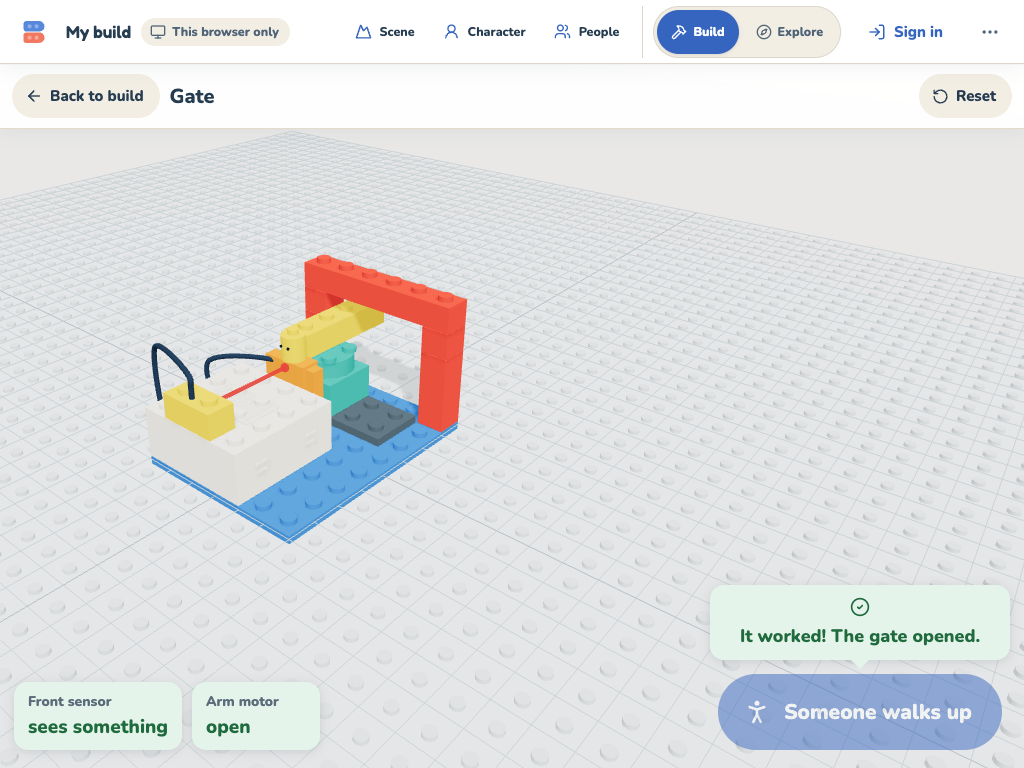
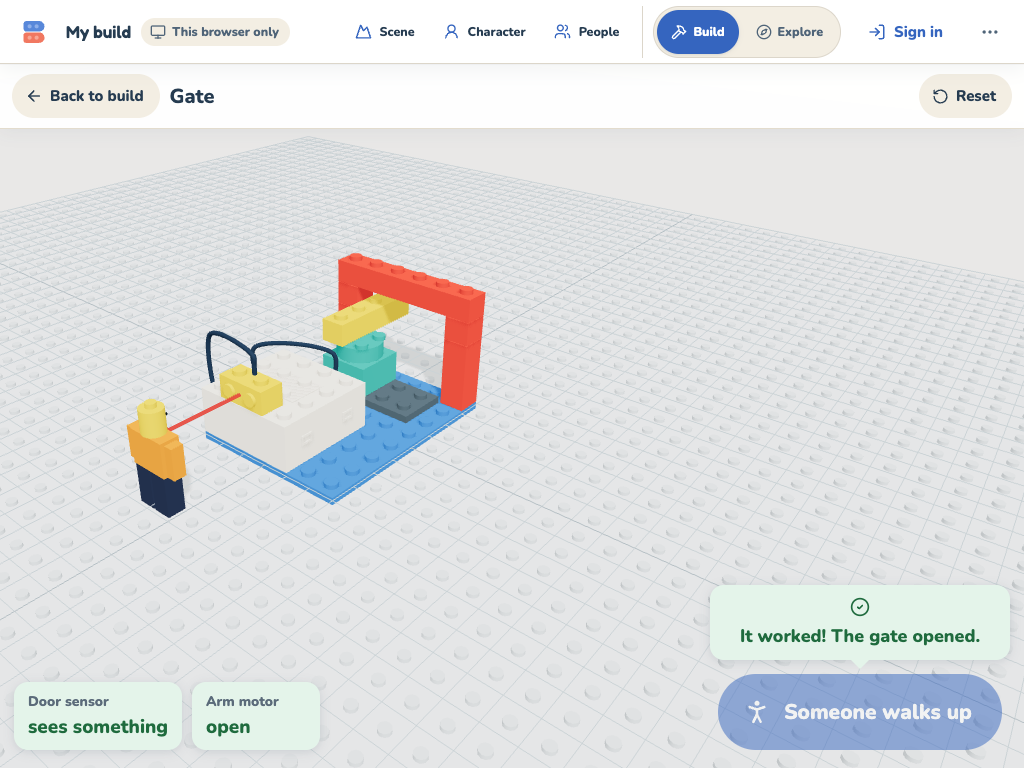
qa: lane Y evidence for the Gate kit's Door sensor (before/after in Try it, 60/60 five fresh runs)
docs/qa/robotics-kid/tryit: the Gate kit's Try it shots rerun with the sensor facing out (A1-A4), the
old ones kept under before/ for comparison; D1 is now the Door sensor turned to the door, D2 the same
with a wall in that gap; results.json from robotics-kid-tryit 60/60 on the tree with
claude/robotics-kid-int at 244a1e2 merged in (each run: the visitor in open ground, 2.3 studs clear of
the gate's front, the whole figure on screen under no panel). README: the follow-up, measurements,
the other harnesses (kid-kits 39/39, kid-guide 116/116, kid-paint 60/60, cp2-run 18/18,
cp2-failures 69/70 with F1.run.output-closeups failing on the integration tree itself: its 14 wheel
events of 400 px under lane M's new wheel zoom).

diff --git a/docs/qa/robotics-kid/tryit/README.md b/docs/qa/robotics-kid/tryit/README.md
@@ -1,23 +1,63 @@
 # Robot Workshop kid lane Y: Try it, the walk-up test, Code's stage and the light
 
-Lane Y (Claude Opus 5.5), 2026-09-23, branch `claude/robotics-kid-tryit` off `9f24b4d`. Everything stays behind
-`VITE_ROBOTICS_PROTOTYPE=1`.
+Lane Y (Claude Opus 5.5), 2026-09-23, branch `claude/robotics-kid-tryit` off `9f24b4d`, merged into
+`claude/robotics-kid-int` at `5a1485e`. The follow-up below (the Gate kit's Door sensor) is on the same branch:
+built on `5a1485e` (lanes R and P), then merged with `claude/robotics-kid-int` at `244a1e2` (lanes M and W and
+lane P's follow-ups) before the runs recorded here. Everything stays behind `VITE_ROBOTICS_PROTOTYPE=1`.
 
 Harness: `scripts/qa/robotics-kid-tryit.mjs`, run against this lane's dev server
 (`npx vite --mode robotics --port 5243 --strictPort --host 127.0.0.1`) in headless system Chrome through
-Playwright, at 1366×768, one pass at 1024×768 and one on a touch screen. Result: **54 of 54 checks pass**
+Playwright, at 1366×768, one pass at 1024×768 and one on a touch screen. Result: **60 of 60 checks pass**
 (`results.json`), no console errors.
 
     PATH=/opt/homebrew/opt/node@22/bin:$PATH UI_ORIGIN=http://127.0.0.1:5243 node scripts/qa/robotics-kid-tryit.mjs
 
 A student's input throughout: the drawer's **Robots** choice, a kit card and the command strip's **Place**; the
 panel's **Try it** and **Code**; **Someone walks up**; **Back to build**; a click on a number block and typed
-digits; **More → Swing to 60°**; **Undo**. Two builds use the studio's own placement actions (as the cp1/cp2
-harnesses do): a gate whose sensor was turned round (select it, press R twice) and a gate with a wall of its own
-bricks in front of its sensor; a signal light gets a wall of loose bricks in front of its sensor. Measured from the
-stage (`window.__robotics.stageStore`: the visitor's phase, the sensor reading, the hinge's angle, the light, the
-walk's verdict), from the page (the result line, the chips, the ready row) and, for the light, from the pixels.
-**Every first-try check ran five times, each in a fresh page with a fresh world.**
+digits; **More → Swing open**; **Undo**. Two builds use the studio's own placement actions (as the cp1/cp2
+harnesses do): the Gate with its sensor turned round to look at the door (select it, press R twice), and the same
+with a wall of its own bricks between the sensor and the door; a signal light gets a wall of loose bricks in front
+of its sensor. Measured from the stage (`window.__robotics.stageStore`: the visitor's phase and place, the sensor
+reading, the hinge's angle, the light, the walk's verdict), from the page (the result line, the chips, the ready
+row) and, for the light and the visitor, from the pixels. **Every first-try check ran five times, each in a fresh
+page with a fresh world.**
+
+## Follow-up: the Gate kit's Door sensor looks out of the front
+
+| | Before (`before/`) | After |
+|---|---|---|
+| The kit card, and the Gate placed from it | `before/A1-gate-placed.png` | `A1-gate-placed.png` |
+| Try it, before the press | `before/A2-gate-try-it.png` | `A2-gate-try-it.png` |
+| Walking into the beam | `before/A3-gate-2-seen.png` | `A3-gate-2-seen.png` |
+| Standing there: the gate open, *It worked! The gate opened.* | `before/A3-gate-3-standing.png` | `A3-gate-3-standing.png` |
+| They have gone: the gate shut, the line still there | `before/A4-gate-after.png` | `A4-gate-after.png` |
+
+Before, the kit's sensor looked at the door from the hub, so the visitor stood in the stud-wide gap between the
+hub and the door, half hidden behind the hub from the home camera. Now it looks out of the gate's front, where
+people come from: the visitor waits in front of the gate, walks up in open ground in full view, the sensor sees
+them, the door swings open behind, and the way through the frame is open while they stand there.
+
+- **The kit** (`src/robotics/kits/kits.ts`). The kit's copy of the spike gate turns its sensor a half turn on the
+  hub (`rotation: 2`: the same two cells, its eyes now on the front face, flush with the kit's front edge). The
+  spike fixture `gateBricks()` is unchanged, so the cp1/cp2 tests and harnesses and the model tests keep their
+  pose; `run/walkUp.test.ts` builds its "nowhere to stand" case on it.
+- **The name.** Default names follow the world facing, so a sensor facing the viewer is "Back sensor", which reads
+  wrong on a gate. The kit calls it **Door sensor**: a kit can name its devices now (`Kit.names`, optional; only
+  the Gate uses it), and `placeKitInSection` writes the names into `section.devices`, where a student's rename
+  goes. So it reads *Door sensor* wherever a device name shows (Try it's and Code's chips, the blocks' *Door
+  sensor · B*, the hub's card, the wiring lines), the student can rename it, it keeps its name when turned (D1), and
+  the one Undo that takes the kit away takes the name too (`kits/kitPlacement.test.ts`).
+- **The kit card** looks from the front-right now, the studio camera's side (`kits/kitPictures.ts`): the sensor's
+  eyes, the door a little open inside the red frame behind, and the arrow over the frame (A1).
+- **Try it's framing** is unchanged code (the robot and the visitor's whole path, in the canvas the panels leave
+  free). The harness now measures where the visitor stands on every run (`A.runN.open-ground`, 5 of 5): the walk
+  has no problem and comes across the beam from the camera's side; standing, the figure's back is
+  2.3 studs clear of the gate's front edge, all of it on the canvas (250–373 × 384–551 px at 1366×768) and under
+  none of the panels (the bar, the chips, the line, the button), and the pixels under its middle are its orange
+  shirt, (231, 164, 67). The same framing at 1024×768: G1.
+- **Turned round** (D1): pick the Door sensor and press R twice: it looks back at the door and keeps its name; the
+  visitor comes to the gap between the hub and the door (the old pose) and it works. D2 turns it to the door
+  first, then builds the wall of the gate's own bricks in that gap.
 
 ## What Noah hit, and what a student sees now
 
@@ -27,13 +67,9 @@ walk's verdict), from the page (the result line, the chips, the ready row) and, 
 | Code: "Someone walks up" did nothing unless the program was already running; after editing the wait the status was "Ready" and the arm stayed shut. | Any stage input (Someone walks up, the joystick, the keys pad, a button part on the stage) first runs the newest code, as Run would, when nothing runs or what runs is older than the saved program (E). An edit alone still never stops or restarts a run (CP2-PLAN §1); the stage says *Your code changed. Press Run to try it.* |
 | The light was red when off; it switched off after 2 s while the person still stood there. | The light's own colour is a pale grey lamp (off); on the stage an off light is greyed and dimmed and a lit one is its colour with a glow (C). The Signal light's program keeps it red while someone is there and turns it off when they leave. |
 | "Ready to try!" never changed after a success. | The ready row says what the last try did (*It worked! Try it again* with a tick, or *The gate didn't open. Try it again*) until the robot or its code changes (A5, D). |
-| The walker reached the gate before the arm swung. | The gate starts opening as the visitor walks into the beam and is 71–75° open when they stop (all five runs). |
+| The walker reached the gate before the arm swung. | The gate starts opening as the visitor walks into the beam and is 70–71° open when they stop (all five runs). |
 | The hub's cables vanished during **Test the motors**. | Cables whose device and hub ride on the same body move with it (F1): on the gate they stay put while the arm swings; on a driving Buggy they ride along. |
 | "studs", "°" and port letters on these screens. | Try it and Code's stage chips say *3 steps away*, *sees something*, *open* / *closed*, *turned to 45*; the lines never use a unit. |
-
-The Gate kit's sensor looks at the door from the hub, so the visitor stands in the stud-wide gap between the hub and
-the door: partly behind the hub from the home camera (A3). The robot works and says so; see "Not done" for the
-one-line kit change that would put the visitor in open ground (D1 shows how that looks).
 
 ## Decisions
 
@@ -59,11 +95,13 @@ one-line kit change that would put the visitor in open ground (D1 shows how that
 - **Code's stage** (CP2-PLAN-consistent). The Code view registers a stage runner while it is open; a stage input
   asks it first. The physical arrow keys are left as they were (only while running), so typing or moving around
   Blockly never starts a program by surprise. A verdict from before an edit is hidden once the code changed.
-- **Kit programs** (`src/robotics/program/starters.ts`). Smart gate: `when run · forever · if Front sensor sees
+- **Kit programs** (`src/robotics/program/starters.ts`). Smart gate: `when run · forever · if Door sensor sees
   something closer than 5 studs → turn Arm motor to 90°, else → turn Arm motor to 0°`; Signal post: the same with
-  `set Light to red` / `turn Light off`. 5 is the event hat's own "sees something", so the visitor at 3 is seen.
-  The gate's tip is unchanged (*change 90 to 45*); the signal's is now *change red to green. Then press "Someone walks
-  up".* Block ids keep their names (`smart-gate:open` …), so the failure harness still finds them.
+  its Front sensor and `set Light to red` / `turn Light off`. 5 is the event hat's own "sees something", so the
+  visitor at 3 is seen. The gate's tip is unchanged (*change 90 to 45*); the signal's is now *change red to green.
+  Then press "Someone walks up".* Block ids keep their names (`smart-gate:open` …), so the failure harness still
+  finds them.
+- **The Gate kit's sensor** faces out of the front and is called *Door sensor* (the follow-up above).
 - **The light**: `ROBOTICS_PART_COLORS.light` is `#c6ced4`; the kit picture draws a lit light in red.
 - **Touch** (coordinator's addendum): the Drive hint reads *Drag the blue ball to drive* when the primary pointer is
   coarse, *Drag the joystick or use the arrow keys* otherwise. Kept inside `DriveView.tsx`'s own foot component.
@@ -72,81 +110,98 @@ one-line kit change that would put the visitor in open ground (D1 shows how that
 
 | Shot | What it shows |
 |---|---|
-| `A1-gate-placed` | The Gate kit from the drawer, ready: *Ready to try!* |
-| `A2-gate-try-it` | Try it: the visitor waiting to the side, *Press the big button. Watch what happens.* |
+| `A1-gate-placed` | The Gate kit from the drawer (its card now from the front), ready: *Ready to try!* |
+| `A2-gate-try-it` | Try it: the visitor waiting in front of the gate, the Door sensor's beam running out of its front, *Press the big button. Watch what happens.* |
 | `A3-gate-2-seen` | The visitor walking slowly into the beam: the beam turns red, *sees something*, *Here they come. Watch the sensor.* |
-| `A3-gate-3-standing` | Standing in the beam: the gate open, *It worked! The gate opened.*; the cables drawn on the stage too. |
+| `A3-gate-3-standing` | Standing in the beam in open ground: the gate open, *It worked! The gate opened.*; the cables drawn on the stage too. |
 | `A4-gate-after` | The visitor gone, the gate shut, the line still there. |
 | `A5-gate-back-in-build` | The ready row: *It worked! Try it again* with a tick. |
+| `before/A1`–`A4` | The same moments with the kit's sensor as it was (looking at the door from the hub). |
 | `B1-gate-eleven-seconds-later` | A look 11 s after the press (Noah's delay): the gate shut, the line still says it worked. |
 | `C1-signal-light-placed` | The Signal light kit in Build: the light a pale grey lamp. |
 | `C2-signal-light-try-it` | On the stage, off: grey. |
 | `C3-signal-light-on` | The visitor standing in the beam: the dome bright red with a glow, *It worked! The light came on.* |
 | `C4-signal-light-after` | They have gone: off again. |
-| `D1-turned-sensor-*` | The gate's sensor turned round to face the front: the visitor comes to where it now looks, in open ground in front of the gate; it works. |
-| `D2-sensor-blocked-build`, `D2-sensor-blocked-3-standing`, `D3-sensor-blocked-after` | A wall of the gate's own bricks in front of its sensor: the visitor walks up to the gate's front, is not seen, and the stage says *The sensor didn't see them. It looks this way* with an arrow along the (thick, pulsing) beam. |
+| `D1-turned-to-the-door-*` | The Door sensor turned round (R twice) to look at the door: the visitor comes to the gap between the hub and the door; it works. |
+| `D2-sensor-blocked-build`, `D2-sensor-blocked-3-standing`, `D3-sensor-blocked-after` | The sensor turned to the door and a wall of the gate's own bricks in that gap: the visitor walks up to the gate's front, is not seen, and the stage says *The sensor didn't see them. It looks this way* with an arrow along the (thick, pulsing) beam. |
 | `D4-sensor-faces-a-wall-*` | A Signal light facing loose bricks 2 steps away: the light is on before anyone comes; *The sensor already sees something. Give it room in front.* |
-| `E1-code-open` | Code on the Gate: *Ready*, the new Smart gate. |
+| `E1-code-open` | Code on the Gate: *Ready*, the new Smart gate reading the Door sensor. |
 | `E2-code-2-seen`, `E2-code-3-standing` | 90 changed to 45, then **Someone walks up** without Run: it runs, the arm goes to 45, *It worked! The gate opened.*; chips *3 steps away · sees something*, *open · turned to 45*. |
 | `E3-code-changed-while-running` | 45 changed to 80 while it runs: *Your code changed. Press Run to try it.* |
-| `F1-test-the-motors-cables` | More → Swing to 60°: the gate's two cables stay while the arm swings. |
-| `G1-gate-1024-*` | The same at 1024×768; the line sits above the button. |
+| `F1-test-the-motors-cables` | More → Swing open: the gate's two cables stay while the arm swings. |
+| `G1-gate-1024-*` | The same at 1024×768; the visitor in open ground, the line above the button. |
 | `G2-drive-touch-hint` | A touch screen: *Drag the blue ball to drive*. |
 
 ## Measured (five fresh runs each)
 
 | | Run 1 | Run 2 | Run 3 | Run 4 | Run 5 |
 |---|---|---|---|---|---|
-| Gate: first seen after the press (while still walking) | 1.9 s | 1.9 s | 2.0 s | 2.0 s | 2.0 s |
-| Gate: arm when the visitor stops | 74.7° | 75.4° | 75.4° | 70.9° | 70.9° |
+| Gate: first seen after the press (while still walking) | 2.0 s | 2.0 s | 2.0 s | 2.0 s | 2.0 s |
+| Gate: arm when the visitor stops | 70.2° | 70.9° | 70.9° | 70.9° | 70.9° |
 | Gate: arm, most open; after they left | 90°; 0° | 90°; 0° | 90°; 0° | 90°; 0° | 90°; 0° |
-| Gate: "It worked!" shown after the press | 2.2 s | 2.3 s | 2.2 s | 2.2 s | 2.2 s |
-| Signal light: samples while standing, all red | 23 | 24 | 25 | 24 | 24 |
+| Gate: "It worked!" shown after the press | 2.3 s | 2.2 s | 2.2 s | 2.2 s | 2.3 s |
+| Gate: standing, their back clear of the gate's front edge | 2.3 studs | 2.3 studs | 2.3 studs | 2.3 studs | 2.3 studs |
+| Gate: the whole figure on the canvas, under no panel (its box, px) | yes (250–373 × 384–551) | yes (same) | yes (same) | yes (same) | yes (same) |
+| Gate: the colour under the figure's middle (its shirt) | (231, 164, 67) | (231, 164, 67) | (231, 164, 67) | (231, 164, 67) | (231, 164, 67) |
+| Signal light: samples while standing, all red | 24 | 25 | 25 | 25 | 25 |
 | Signal light: after they left | off | off | off | off | off |
-| Code: status before the press; arm reached (typed 45) | Ready; 45° | Ready; 45° | Ready; 45° | Ready; 45° | Ready; 45° |
+| Code: status before the press; arm reached (typed 45) | Ready; 45° | Ready; 45.1° | Ready; 45.1° | Ready; 45.1° | Ready; 45° |
 
-The light's dome on screen: in Build (222, 225, 226); on the stage, off (208, 212, 215) and on (255, 117, 92).
+The light's dome on screen: in Build (223, 225, 227); on the stage, off (208, 212, 215) and on (255, 117, 92).
 
 ## The other harnesses
 
-Run against this lane's dev server with `UI_OUTPUT` in a scratch folder (so other lanes' evidence folders are left
-as they were): `robotics-kid-drive` 71/71, `robotics-cp2-run` 18/18, `robotics-cp2-code` 51/51,
-`robotics-cp2-failures` 70/70, `robotics-kid-kits` 38/38, and, because this lane touched cables and the ready row,
-`robotics-cp2-wiring` 53/53 and `robotics-kid-guide` 116/116.
+For the follow-up, on the merged tree (`244a1e2` merged in), against this lane's dev server with `UI_OUTPUT` in a
+scratch folder (so other lanes' evidence folders are left as they were): `robotics-kid-kits` 39/39,
+`robotics-kid-guide` 116/116, `robotics-kid-paint` 60/60 (it places the Gate kit and clicks its hub),
+`robotics-cp2-run` 18/18 and `robotics-cp2-failures` 69/70. The one failure, `F1.run.output-closeups`, does not come
+from this change (the check zooms in on a rover built from parts, no kit): it zooms with 14 wheel events of 400 px,
+and under lane M's new wheel zoom (`basics/wheelZoom.ts`: 400 px doubles the distance, where one event was 5 %)
+that most likely flies the camera past the motor. Its socket ends up behind the camera (`inFront: false`) and the
+stage shows nothing. Lane M's harness table does not list cp2-failures. One wheel event of 400 px (or four of 100)
+would zoom as far as the 14 did before.
 
-Expectations changed on purpose (the wording above): `robotics-cp2-code` R2 (the sensor chip reads *N steps away
-(sees something)*) and R4 (*Your code changed. Press Run to try it.*); `robotics-cp2-failures` F2 (the same line) and
-F4.run.chip (a stuck arm's chip reads *closed*); `robotics-cp3-ipad-code` run:readings-update (the sensor chip in
-steps). The iPad harness was not run: the iOS Simulator is off limits to this lane.
+None of the cp2 harnesses places a kit (they build their gates and rovers from parts), and neither does
+`robotics-kid-guide`; `robotics-kid-kits` and `robotics-kid-paint` place the Gate kit. `robotics-kid-kits`' Gate
+check now also reads its sensor's name (*Door sensor*).
+
+The first pass (before the merge at `5a1485e`) ran `robotics-kid-drive` 71/71, `robotics-cp2-run` 18/18,
+`robotics-cp2-code` 51/51, `robotics-cp2-failures` 70/70, `robotics-kid-kits` 38/38, `robotics-cp2-wiring` 53/53 and
+`robotics-kid-guide` 116/116. Expectations changed on purpose then (the wording above): `robotics-cp2-code` R2 (the
+sensor chip reads *N steps away (sees something)*) and R4 (*Your code changed. Press Run to try it.*);
+`robotics-cp2-failures` F2 (the same line) and F4.run.chip (a stuck arm's chip reads *closed*);
+`robotics-cp3-ipad-code` run:readings-update (the sensor chip in steps). The iPad harness was not run: the iOS
+Simulator is off limits to this lane.
 
 ## Merging
 
-A trial merge with `claude/robotics-kid-int` at `51a5b70` (lanes R and P merged) on a throwaway branch in this
-worktree was conflict-free; on it the robotics unit tests passed (50 files, 648 tests) and so did
-`robotics-kid-tryit` (54/54; one earlier run lost two resource loads to the dev server as it re-optimized after the
-switch, then 54/54), `robotics-cp2-code` (51/51), `robotics-cp2-failures` (70/70) and `robotics-kid-drive` (71/71).
-The throwaway branch was deleted. To merge cleanly beside lane P, the ready row's tick has its own icon type and
-import line, and its tests their own file (`guide/nextStepsTried.test.ts`).
+The first pass was merged into `claude/robotics-kid-int` at `5a1485e`. The follow-up's branch contains
+`claude/robotics-kid-int` at `244a1e2` (merged clean); on it the robotics unit tests pass (59 files, 746 tests), the
+whole suite passes (185 files, 2066 tests), the app, node and brick-core typechecks are clean, and
+`src/robotics/codex-qa-20260922.test.ts` is unchanged and passing. To merge cleanly beside lane P, the ready row's
+tick has its own icon type and import line, and its tests their own file (`guide/nextStepsTried.test.ts`).
 
 ## Unit tests
 
-`run/walkUp.test.ts` (sensors facing −Z, −X, +Z, +X; both kits turned 0–3 quarter turns; seen while walking, read
-at 3, seen for the whole wait; the camera's side blocked; a wall in the beam; the beam into the robot itself; the
-program's sensor of two; no sensor), `drive/tryOutcome.test.ts` (every verdict and its line, the ready row and its
-staleness, both kits' programs reacting to the walk), `state/stageStore.test.ts` (the watch, the kept verdict, the
-runner), `code/CodeView.test.tsx` (Someone walks up runs the newest code; an edit while running; code that cannot
-run; the keys pad), `drive/DriveView.test.tsx` (the lines, the fallback, Open Code, the ready row, the touch hint),
+`run/walkUp.test.ts` (sensors facing −Z, −X, +Z, +X; both kits turned 0–3 quarter turns; the Gate kit's visitor in
+open ground in front of it; seen while walking, read at 3, seen for the whole wait; the camera's side blocked; a
+wall in the beam; the beam into the robot itself; the program's sensor of two; no sensor),
+`kits/kits.test.ts` (the Gate's Door sensor faces out, flush with the kit's front, named in the section; only the
+Gate names a device), `kits/kitPlacement.test.ts` (the name through the real stores: renamed, Undo),
+`drive/tryOutcome.test.ts` (every verdict and its line, the ready row and its staleness, both kits' programs
+reacting to the walk), `state/stageStore.test.ts` (the watch, the kept verdict, the runner), `code/CodeView.test.tsx`
+(Someone walks up runs the newest code; an edit while running; code that cannot run; the keys pad),
+`drive/DriveView.test.tsx` (the lines, the fallback, Open Code, the ready row, the touch hint),
 `guide/nextStepsTried.test.ts`, `code/stageReadings.test.ts`, `sim/mechanics.test.ts`, `wiring/route.test.ts`,
 `run/controller.test.ts`, `program/compile.test.ts`, `drive/playProgram.test.ts`.
 
 ## Not done
 
-- **The Gate kit's sensor** looks at the door from the hub, so the visitor stands behind the hub (A3). Turning the
-  kit's sensor to face out of the front (`rotation: 2` in the kit's copy of the fixture, plus a name, since a sensor
-  facing the viewer is called "Back sensor") would put the visitor in open ground (D1). The kit is lane K's.
-- **Block dropdowns** still read *Front sensor · B*: `program/devices.ts` labels are `name · port` by CP2-PLAN §5 and
+- **Block dropdowns** still read *Door sensor · B*: `program/devices.ts` labels are `name · port` by CP2-PLAN §5 and
   the wiring harness (W2) checks that a block's label follows its cable. Dropping the port is a one-line change in
   `deviceLabel` plus the inspector's block preview, with tests in lanes P, U and W.
-- **More → Test the motors** still reads *Swing to 60°* on this branch; lane P words it *Swing open* on the
-  integration branch, and this lane's harness clicks either.
 - The verdict is for "Someone walks up" only; the other stage inputs start the program but have nothing to judge.
+- The visitor stands in front of the hub, where the Door sensor looks, not in the frame's opening; they could walk
+  on through the open gate, but the walk-up does not (it walks back the way it came).
+- The Signal light kit's sensor still looks away from the home camera, so its visitor stands behind the post; the
+  post is low, so they stand in full view (C3). Left as it is.
